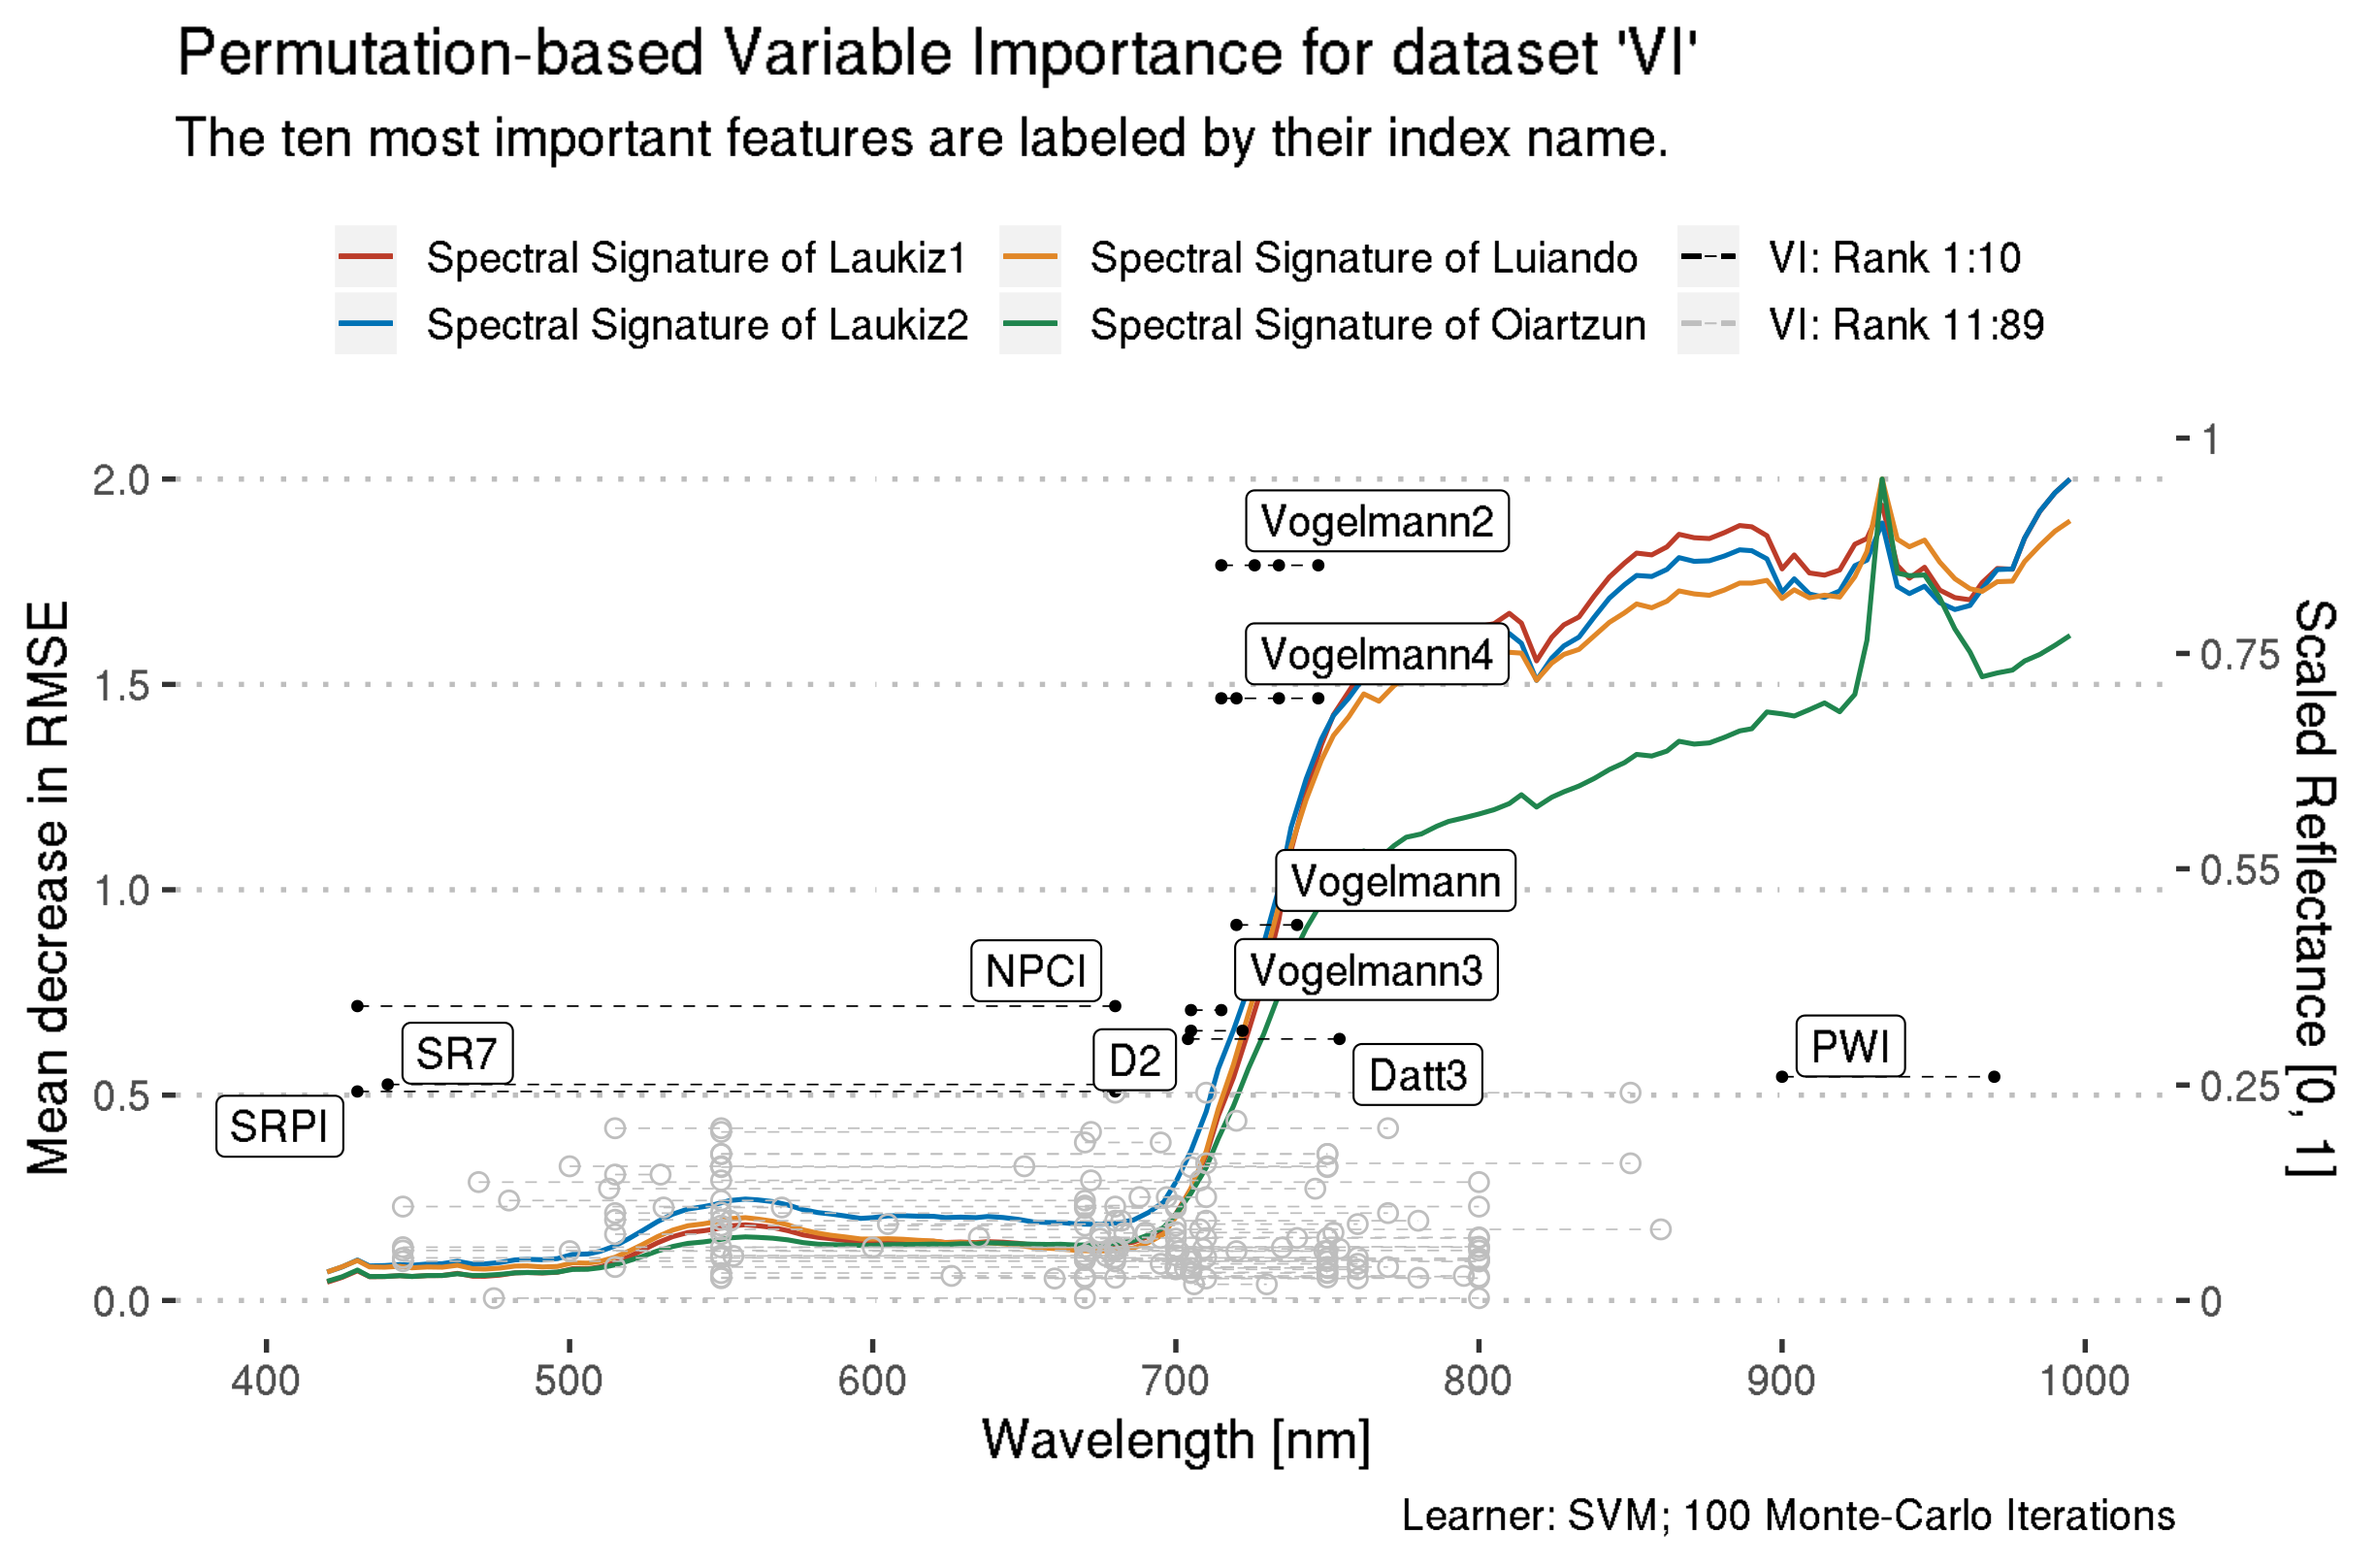
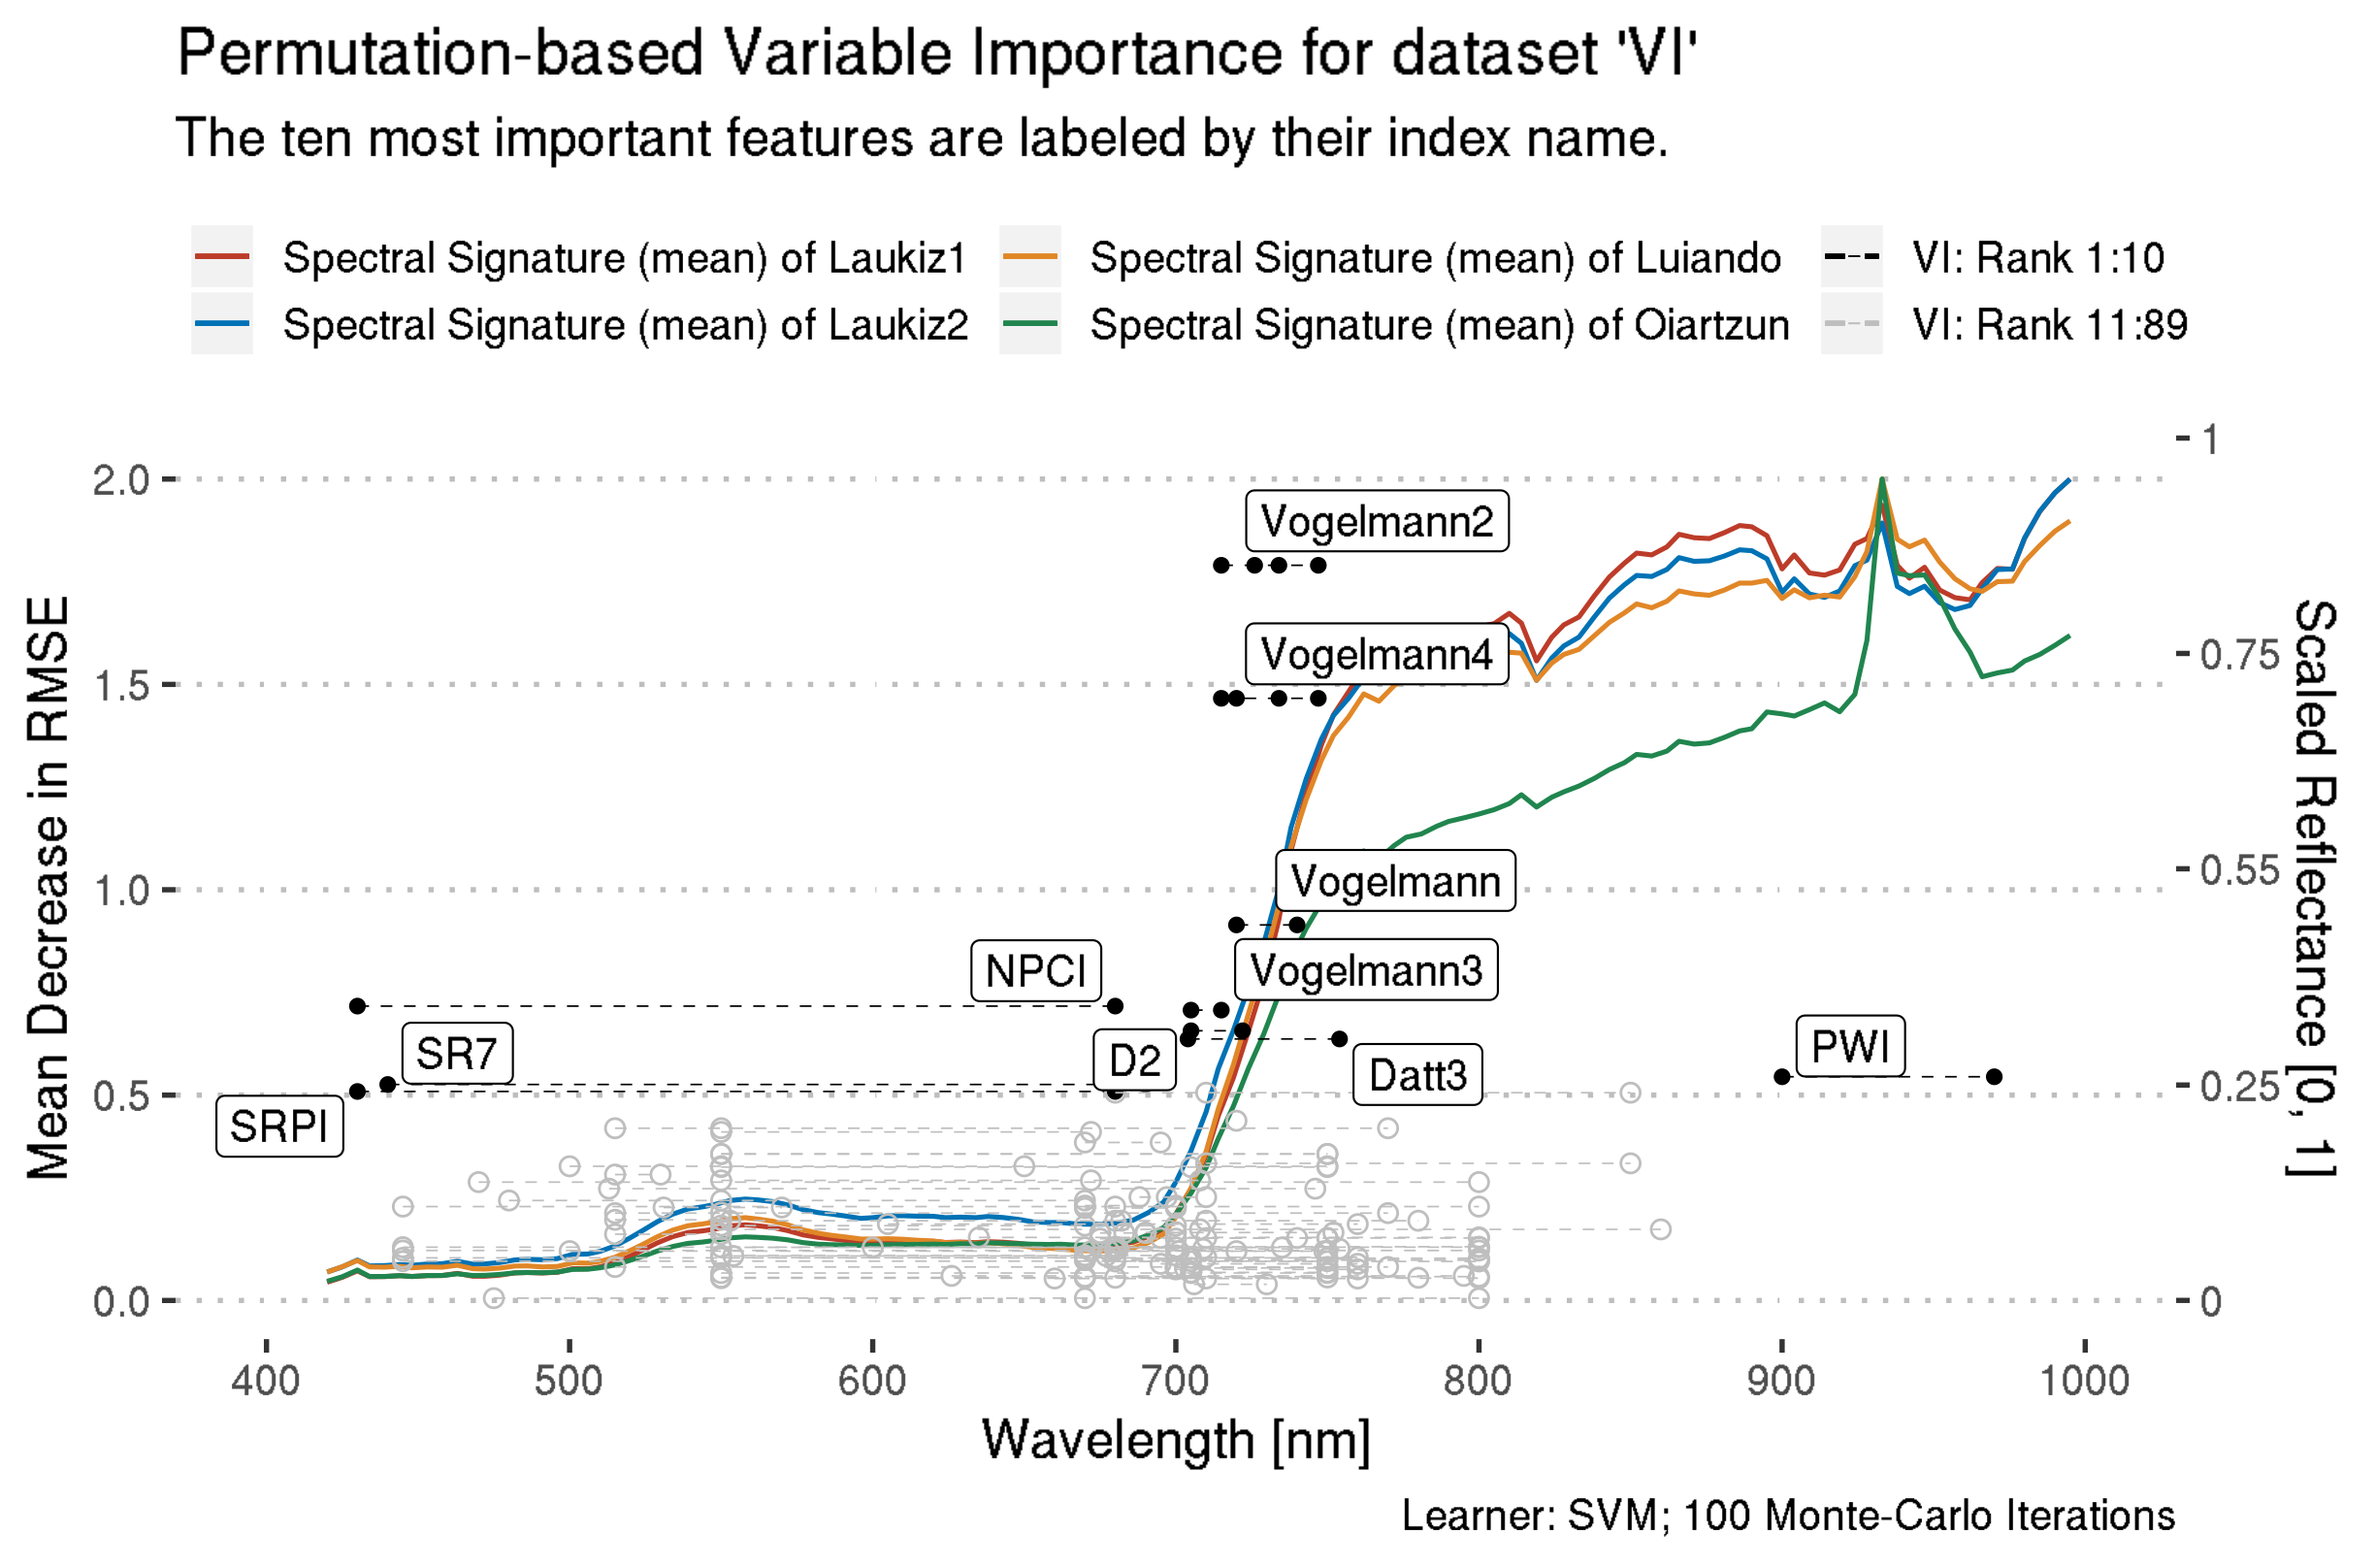
Build site.

Changed region(s): [[0.5899, 0.1548, 0.9314, 0.2167], [0.1242, 0.1548, 0.3415, 0.2167], [0.0, 0.3715, 0.031, 0.774]]

diff --git a/docs/feature-importance.html b/docs/feature-importance.html
@@ -371,7 +371,7 @@ $(document).ready(function () {
 
 <div id="TOC">
 <ul>
-<li><a href="#create-a-virtual-spectral-signature-of-vegetation-using-prosail.">Create a virtual spectral signature of vegetation using PROSAIL.</a></li>
+<li><a href="#create-a-virtual-spectral-signature-mean-of-vegetation-using-prosail.">Create a virtual Spectral Signature (mean) of vegetation using PROSAIL.</a></li>
 <li><a href="#p1-main-plot">P1 Main plot</a></li>
 <li><a href="#plots-by-dataset">Plots by dataset</a><ul>
 <li><a href="#hr">HR</a><ul>
@@ -506,16 +506,16 @@ This reproducible <a href="http://rmarkdown.rstudio.com">R Markdown</a> analysis
 <div class="panel panel-default">
 <div class="panel-heading">
 <p class="panel-title">
-<a data-toggle="collapse" data-parent="#workflowr-checks" href="#strongRepositoryversionstrongahrefhttpsgithubcompats2019featureselectiontreeb605cb21b90106fc9329cdd5aa3e1d52cff642fctargetblankb605cb2a"> <span class="glyphicon glyphicon-ok text-success" aria-hidden="true"></span> <strong>Repository version:</strong> <a href="https://github.com/pat-s/2019-feature-selection/tree/b605cb21b90106fc9329cdd5aa3e1d52cff642fc" target="_blank">b605cb2</a> </a>
+<a data-toggle="collapse" data-parent="#workflowr-checks" href="#strongRepositoryversionstrongahrefhttpsgithubcompats2019featureselectiontreea59a407dc3aef4b301884c292968cfe87abe6853targetblanka59a407a"> <span class="glyphicon glyphicon-ok text-success" aria-hidden="true"></span> <strong>Repository version:</strong> <a href="https://github.com/pat-s/2019-feature-selection/tree/a59a407dc3aef4b301884c292968cfe87abe6853" target="_blank">a59a407</a> </a>
 </p>
 </div>
[2 lines of base64/hex data omitted]
 <div class="panel-body">
 <p>
 Great! You are using Git for version control. Tracking code development and connecting the code version to the results is critical for reproducibility.
 </p>
 <p>
-The results in this page were generated with repository version <a href="https://github.com/pat-s/2019-feature-selection/tree/b605cb21b90106fc9329cdd5aa3e1d52cff642fc" target="_blank">b605cb2</a>. See the <em>Past versions</em> tab to see a history of the changes made to the R Markdown and HTML files.
+The results in this page were generated with repository version <a href="https://github.com/pat-s/2019-feature-selection/tree/a59a407dc3aef4b301884c292968cfe87abe6853" target="_blank">a59a407</a>. See the <em>Past versions</em> tab to see a history of the changes made to the R Markdown and HTML files.
 </p>
 <p>
 Note that you need to be careful to ensure that all relevant files for the analysis have been committed to Git prior to generating the results (you can use <code>wflow_publish</code> or <code>wflow_git_commit</code>). workflowr only checks the R Markdown file, but you know if there are other scripts or data files that it depends on. Below is the status of the Git repository when the results were generated:
@@ -581,6 +581,40 @@ Message
 </tr>
 </thead>
 <tbody>
+<tr>
+<td>
+Rmd
+</td>
+<td>
+<a href="https://github.com/pat-s/2019-feature-selection/blob/a59a407dc3aef4b301884c292968cfe87abe6853/analysis/feature-importance.Rmd" target="_blank">a59a407</a>
+</td>
+<td>
+pat-s
+</td>
+<td>
+2020-04-19
+</td>
+<td>
+wflow_publish(knitr_in(“analysis/feature-importance.Rmd”), view = FALSE,
+</td>
+</tr>
+<tr>
+<td>
+html
+</td>
+<td>
+<a href="https://rawcdn.githack.com/pat-s/2019-feature-selection/a0b0e88ba8130b795b0894db3aca68b75b8f658f/docs/feature-importance.html" target="_blank">a0b0e88</a>
+</td>
+<td>
+pat-s
+</td>
+<td>
+2020-04-19
+</td>
+<td>
+Build site.
+</td>
+</tr>
 <tr>
 <td>
 Rmd
@@ -1161,10 +1195,10 @@ add feature importance report
  9 SR7             0.526     9
 10 SRPI            0.509    10
 # … with 79 more rows</code></pre>
-<div id="create-a-virtual-spectral-signature-of-vegetation-using-prosail." class="section level1">
-<h1>Create a virtual spectral signature of vegetation using PROSAIL.</h1>
-<p>PROSAIL is a algorithm simulating spectral signatures of vegetation, see <code>?hsdar::PROSAIL</code>. Reflectance is scaled to 0-10 to be able to plot it in the same plot as the feature importance rankings -&gt; the axis limits for the y and z axis needs to match.</p>
-<p>PROSAIL returns a spectral signature from 400 nm to 2500 nm -&gt; we take the values only and subset to 400 nm - 1000 nm. Because we order from 1 - 10 with 1 being the best rank, we have to reverse the scaling of the reflectance values.</p>
+<div id="create-a-virtual-spectral-signature-mean-of-vegetation-using-prosail." class="section level1">
+<h1>Create a virtual Spectral Signature (mean) of vegetation using PROSAIL.</h1>
+<p>PROSAIL is a algorithm simulating Spectral Signature (mean)s of vegetation, see <code>?hsdar::PROSAIL</code>. Reflectance is scaled to 0-10 to be able to plot it in the same plot as the feature importance rankings -&gt; the axis limits for the y and z axis needs to match.</p>
+<p>PROSAIL returns a Spectral Signature (mean) from 400 nm to 2500 nm -&gt; we take the values only and subset to 400 nm - 1000 nm. Because we order from 1 - 10 with 1 being the best rank, we have to reverse the scaling of the reflectance values.</p>
 <p>Next we bind the simulated data with the feature importance rankings. To join both data.frames we need to round the reflectance centers of the bands to integers to match with the reflectance values created by PROSAIL.</p>
 <p>To label only a subset of the data, a custom data.frame is created.</p>
 </div>
@@ -1507,6 +1541,17 @@ Date
 <tbody>
 <tr>
 <td>
+<a href="https://github.com/pat-s/2019-feature-selection/blob/a0b0e88ba8130b795b0894db3aca68b75b8f658f/docs/figure/feature-importance.Rmd/fi-hr-ale-1.png" target="_blank">a0b0e88</a>
+</td>
+<td>
+pat-s
+</td>
+<td>
+2020-04-19
+</td>
+</tr>
+<tr>
+<td>
 <a href="https://github.com/pat-s/2019-feature-selection/blob/4e59d28a0cb43f6b6e4284b1e44d75e0bf0795c3/docs/figure/feature-importance.Rmd/fi-hr-ale-1.png" target="_blank">4e59d28</a>
 </td>
 <td>
@@ -1591,6 +1636,17 @@ Date
 </tr>
 </thead>
 <tbody>
+<tr>
+<td>
+<a href="https://github.com/pat-s/2019-feature-selection/blob/a0b0e88ba8130b795b0894db3aca68b75b8f658f/docs/figure/feature-importance.Rmd/unnamed-chunk-1-1.png" target="_blank">a0b0e88</a>
+</td>
+<td>
+pat-s
+</td>
+<td>
+2020-04-19
+</td>
+</tr>
 <tr>
 <td>
 <a href="https://github.com/pat-s/2019-feature-selection/blob/4e59d28a0cb43f6b6e4284b1e44d75e0bf0795c3/docs/figure/feature-importance.Rmd/unnamed-chunk-1-1.png" target="_blank">4e59d28</a>
@@ -1715,6 +1771,17 @@ Date
 <tbody>
 <tr>
 <td>
+<a href="https://github.com/pat-s/2019-feature-selection/blob/a0b0e88ba8130b795b0894db3aca68b75b8f658f/docs/figure/feature-importance.Rmd/fi-vi-ale-1.png" target="_blank">a0b0e88</a>
+</td>
+<td>
+pat-s
+</td>
+<td>
+2020-04-19
+</td>
+</tr>
+<tr>
+<td>
 <a href="https://github.com/pat-s/2019-feature-selection/blob/4e59d28a0cb43f6b6e4284b1e44d75e0bf0795c3/docs/figure/feature-importance.Rmd/fi-vi-ale-1.png" target="_blank">4e59d28</a>
 </td>
 <td>
@@ -1799,6 +1866,17 @@ Date
 </tr>
 </thead>
 <tbody>
+<tr>
+<td>
+<a href="https://github.com/pat-s/2019-feature-selection/blob/a0b0e88ba8130b795b0894db3aca68b75b8f658f/docs/figure/feature-importance.Rmd/unnamed-chunk-2-1.png" target="_blank">a0b0e88</a>
+</td>
+<td>
+pat-s
+</td>
+<td>
+2020-04-19
+</td>
+</tr>
 <tr>
 <td>
 <a href="https://github.com/pat-s/2019-feature-selection/blob/4e59d28a0cb43f6b6e4284b1e44d75e0bf0795c3/docs/figure/feature-importance.Rmd/unnamed-chunk-2-1.png" target="_blank">4e59d28</a>
